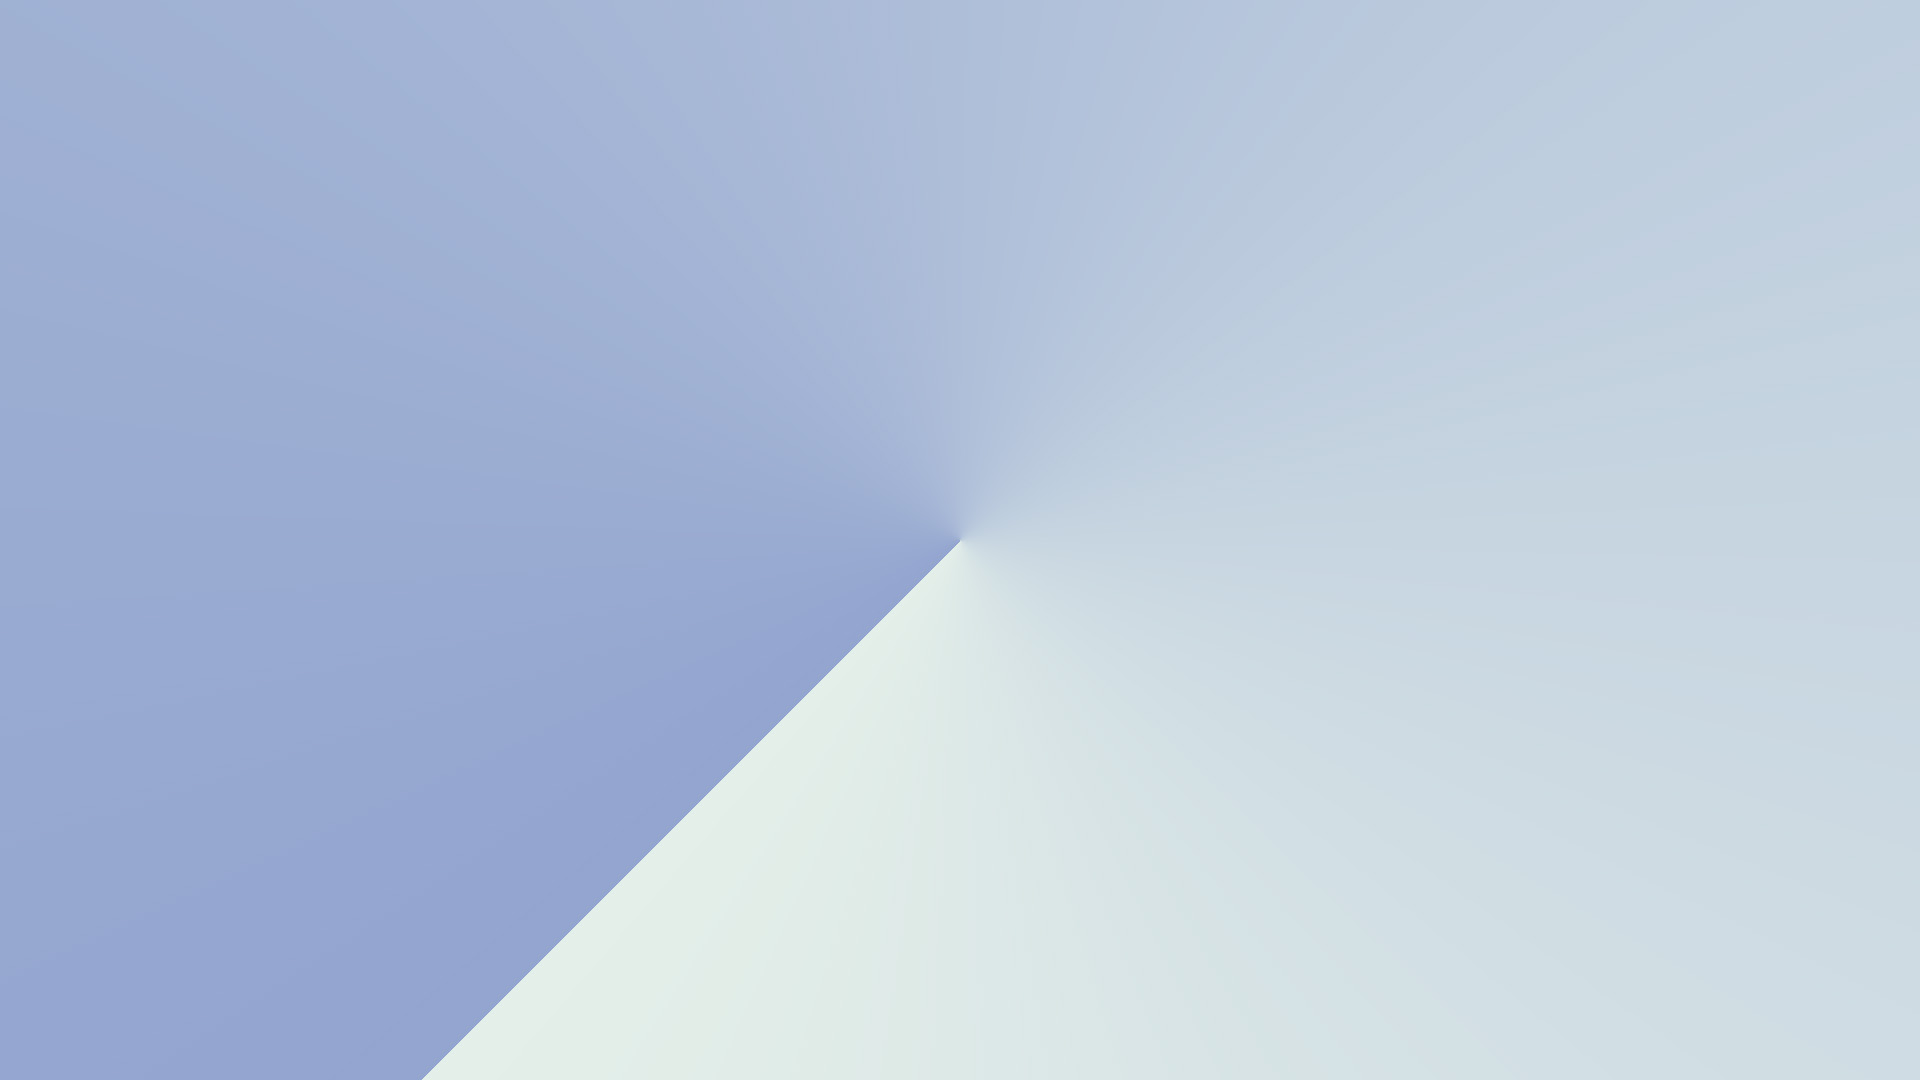
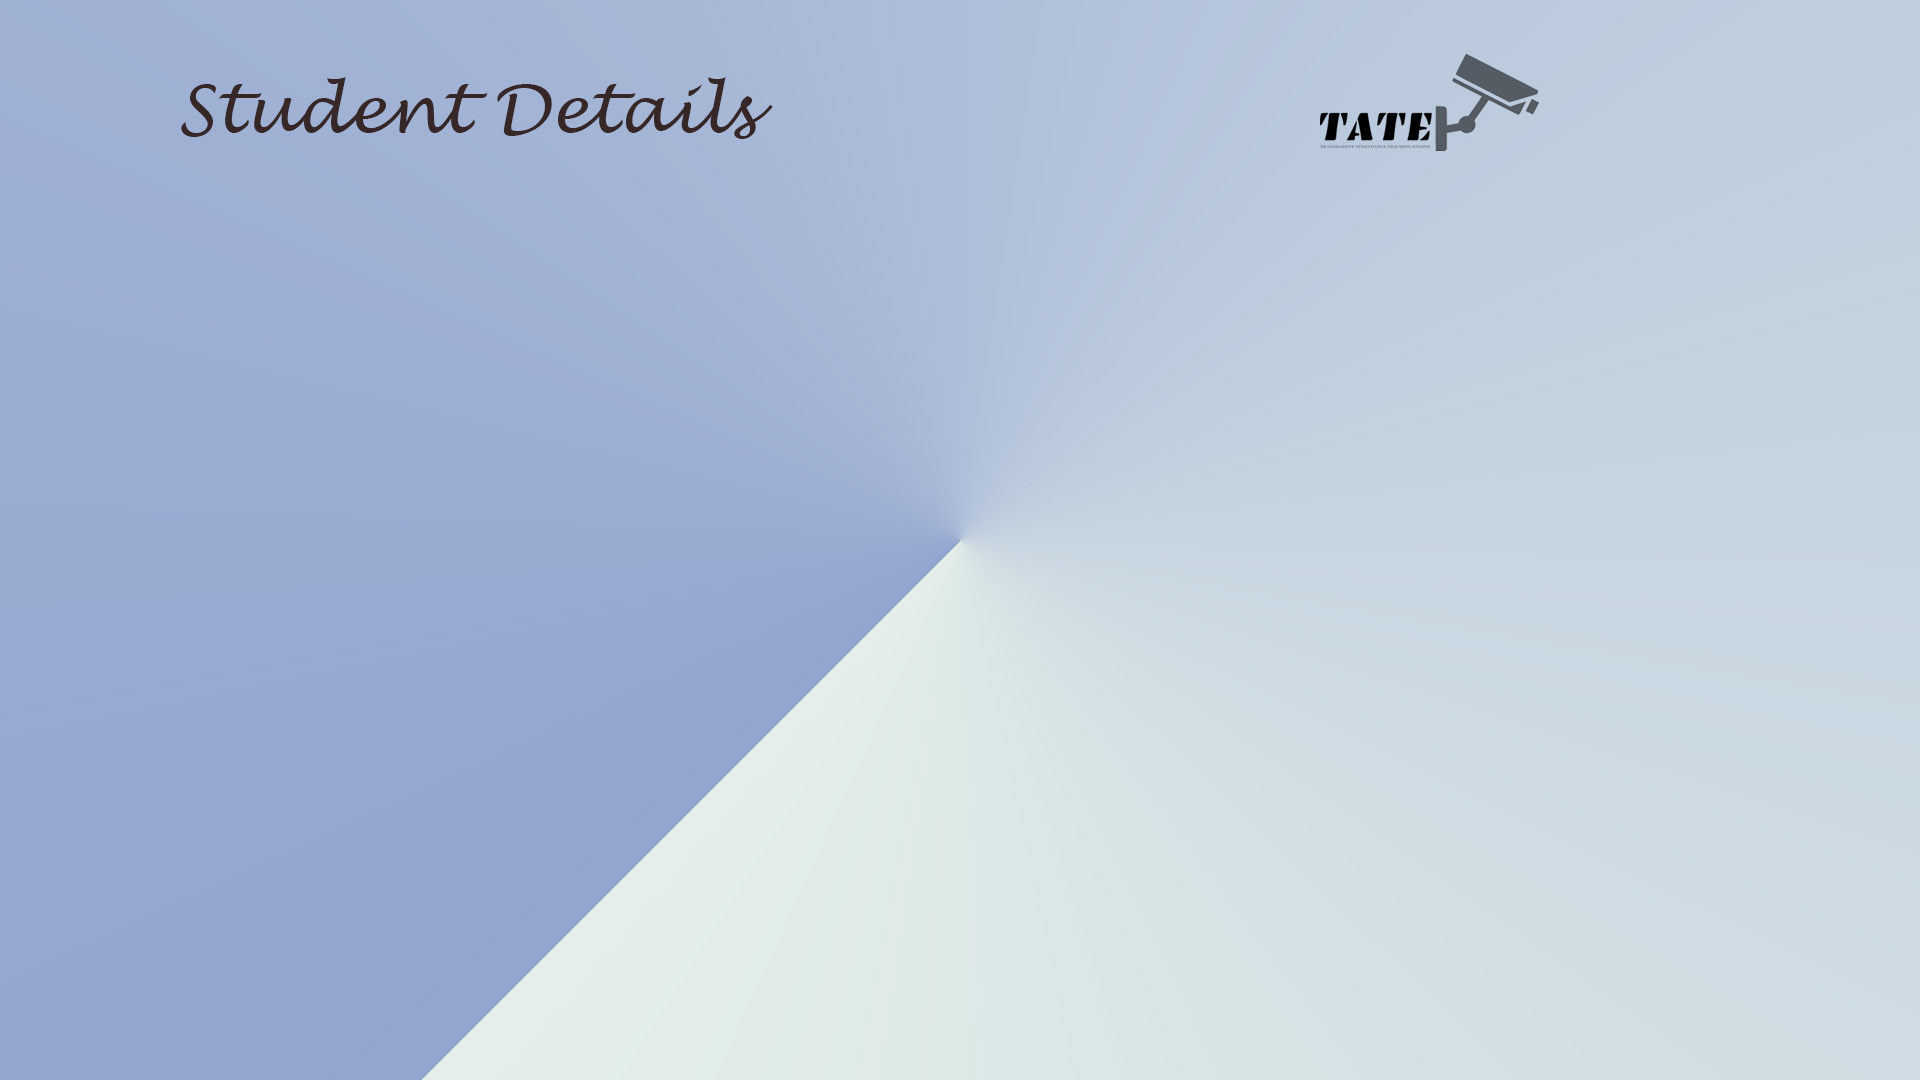
Added some updates on GUI

Changed region(s): [[0.0938, 0.0611, 0.4062, 0.1222], [0.6875, 0.0611, 0.8125, 0.1528]]

diff --git a/studentdetails.py b/studentdetails.py
@@ -25,30 +25,30 @@ class Student:
 
         # Background image
         img1 = Image.open(r"images\stubg.jpg")
-        img1 = img1.resize((1700, 1000))
+        img1 = img1.resize((1920, 1080))
         self.photimg1 = ImageTk.PhotoImage(img1)
 
         lbl_1 = Label(self.root, image=self.photimg1)
         lbl_1.place(x=0, y=0, width=1700, height=1000)
 
         # Font in image
-        title_lbl = Label(lbl_1, text="Student Details", font=(
-            "Arial", 42, "bold"))
-        title_lbl.place(x=0, y=20, width=1530, height=45)
+        # title_lbl = Label(lbl_1, text="Student Details", font=(
+        #     "Arial", 42, "bold"))
+        # title_lbl.place(x=0, y=20, width=1530, height=45)
 
         # main_frame = Frame(lbl_1, bd=2)
         # main_frame.place(x=20, y=84, width=1500, height=700)
 
         # Left frame
-        Left_frame = LabelFrame(lbl_1, bd=2, bg="white", relief=RIDGE,
+        Left_frame = LabelFrame(lbl_1, bd=2, bg="white", relief=GROOVE,
                                 text="Student Info", font=("arial", 15, "bold"))
-        Left_frame.place(x=10, y=80, width=720, height=650)
+        Left_frame.place(x=30, y=120, width=720, height=650)
 
         leftimg1 = Image.open(r"images\regleft.jpg")
         leftimg1 = leftimg1.resize((700, 130))
         self.photimg_left = ImageTk.PhotoImage(leftimg1)
 
-        lbl_left = Label(Left_frame, image=self.photimg_left)
+        lbl_left = Label(Left_frame, image=self.photimg_left, relief=GROOVE)
         lbl_left.place(x=10, y=0, width=680, height=170)
 
         # Course frame----------------------------------------------------------------
@@ -194,13 +194,14 @@ class Student:
         # Right frame
         Right_frame = LabelFrame(lbl_1, bd=2, bg="white", relief=RIDGE,
                                  text="Student Info", font=("arial", 15, "bold"))
-        Right_frame.place(x=770, y=80, width=720, height=650)
+        Right_frame.place(x=770, y=120, width=720, height=650)
 
         rightimg1 = Image.open(r"images\fdet.jpg")
         rightimg1 = rightimg1.resize((700, 130))
         self.photoimg_right = ImageTk.PhotoImage(rightimg1)
 
-        lbl_right = Label(Right_frame, image=self.photoimg_right)
+        lbl_right = Label(
+            Right_frame, image=self.photoimg_right, relief=GROOVE)
         lbl_right.place(x=10, y=0, width=680, height=170)
 
         # search student details frame
